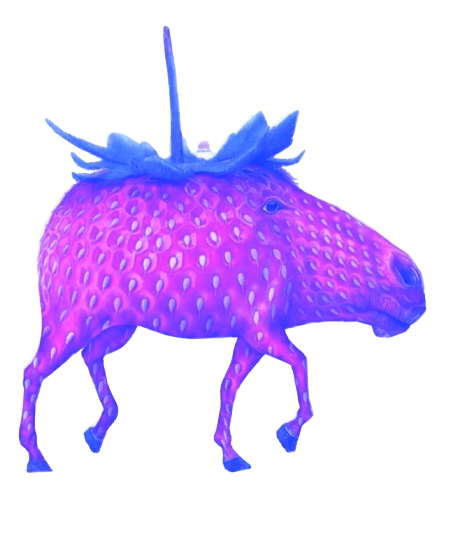
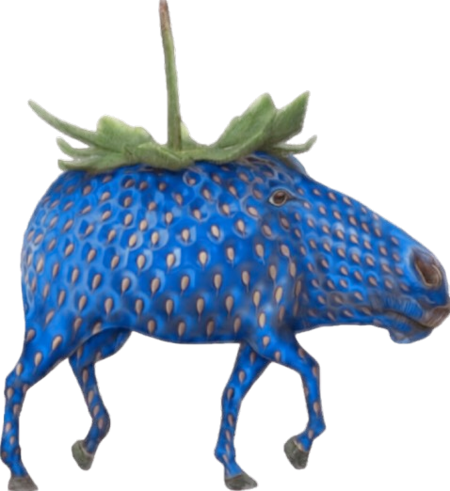
strawberryelephants

diff --git a/global.css b/global.css
@@ -29,10 +29,16 @@ th, td{border-radius: 12px;}
 #mousepoo{text-decoration: none;}
 #rowsofidenticalmen2{text-align: center; font-size: 40px; padding: 0px 0px 30px 0px;}
 #oddoneout{padding: 30px; text-align: center; color: lightgoldenrodyellow; font-family: 'Franklin Gothic Medium', 'Arial Narrow', Arial, sans-serif; font-weight: lighter;}
-#oddoneoutbg{background-image: url(blueglowingflow.gif); background-position: center; background-size: 100%; background-repeat: no-repeat;}
+#lilgames{background-image: url(blueglowingflow.gif); background-position: center; background-size: 100%; background-repeat: no-repeat;}
 
 #strawberryelephant{display: flex; text-align: center; align-items: center; padding:30px;}
-#strawberryelephant img{width: 15%;}
+#strawberryelephant img{width: 10%;}
+#elephant1:hover{content: url(smallerbluestrawberryelephant.png);}
+#elephant2:hover{content: url(smallerbluestrawberryelephant.png);}
+#elephant3:hover{content: url(smallerbluestrawberryelephant.png);}
+#elephant4:hover{content: url(smallerbluestrawberryelephant.png);}
+#elephant5:hover{content: url(smallerbluestrawberryelephant.png);}
+#elephant6:hover{content: url(smallerbluestrawberryelephant.png);}
 
 #spaghettibg{color:white; background-image: url(darkwall.png);background-position: center;background-size: 100%; background-repeat: no-repeat; text-align: center;}
 

diff --git a/tony.html b/tony.html
@@ -6,7 +6,7 @@
 </head>
 
 <body>
-    <div id="oddoneoutbg">
+    <div id="lilgames">
         <div id="header">
             <div id="logo">
                 <img src="" width="40%" height="40%">
@@ -49,12 +49,12 @@
             </div>
         </div>
         <div id="strawberryelephant">
-            <img src="redstrawberryelephant.png" class="rowsofelephants">
-            <img src="redstrawberryelephant.png" class="rowsofelephants">
-            <img src="redstrawberryelephant.png" class="rowsofelephants">
-            <img src="redstrawberryelephant.png" class="rowsofelephants">
-            <img src="redstrawberryelephant.png" class="rowsofelephants">
-            <img src="redstrawberryelephant.png" class="rowsofelephants">
+            <img src="redstrawberryelephant.png" id="elephant1">
+            <img src="redstrawberryelephant.png" id="elephant2">
+            <img src="redstrawberryelephant.png" id="elephant3">
+            <img src="redstrawberryelephant.png" id="elephant4">
+            <img src="redstrawberryelephant.png" id="elephant5">
+            <img src="redstrawberryelephant.png" id="elephant6">
         </div>
     </div>
 </body>
